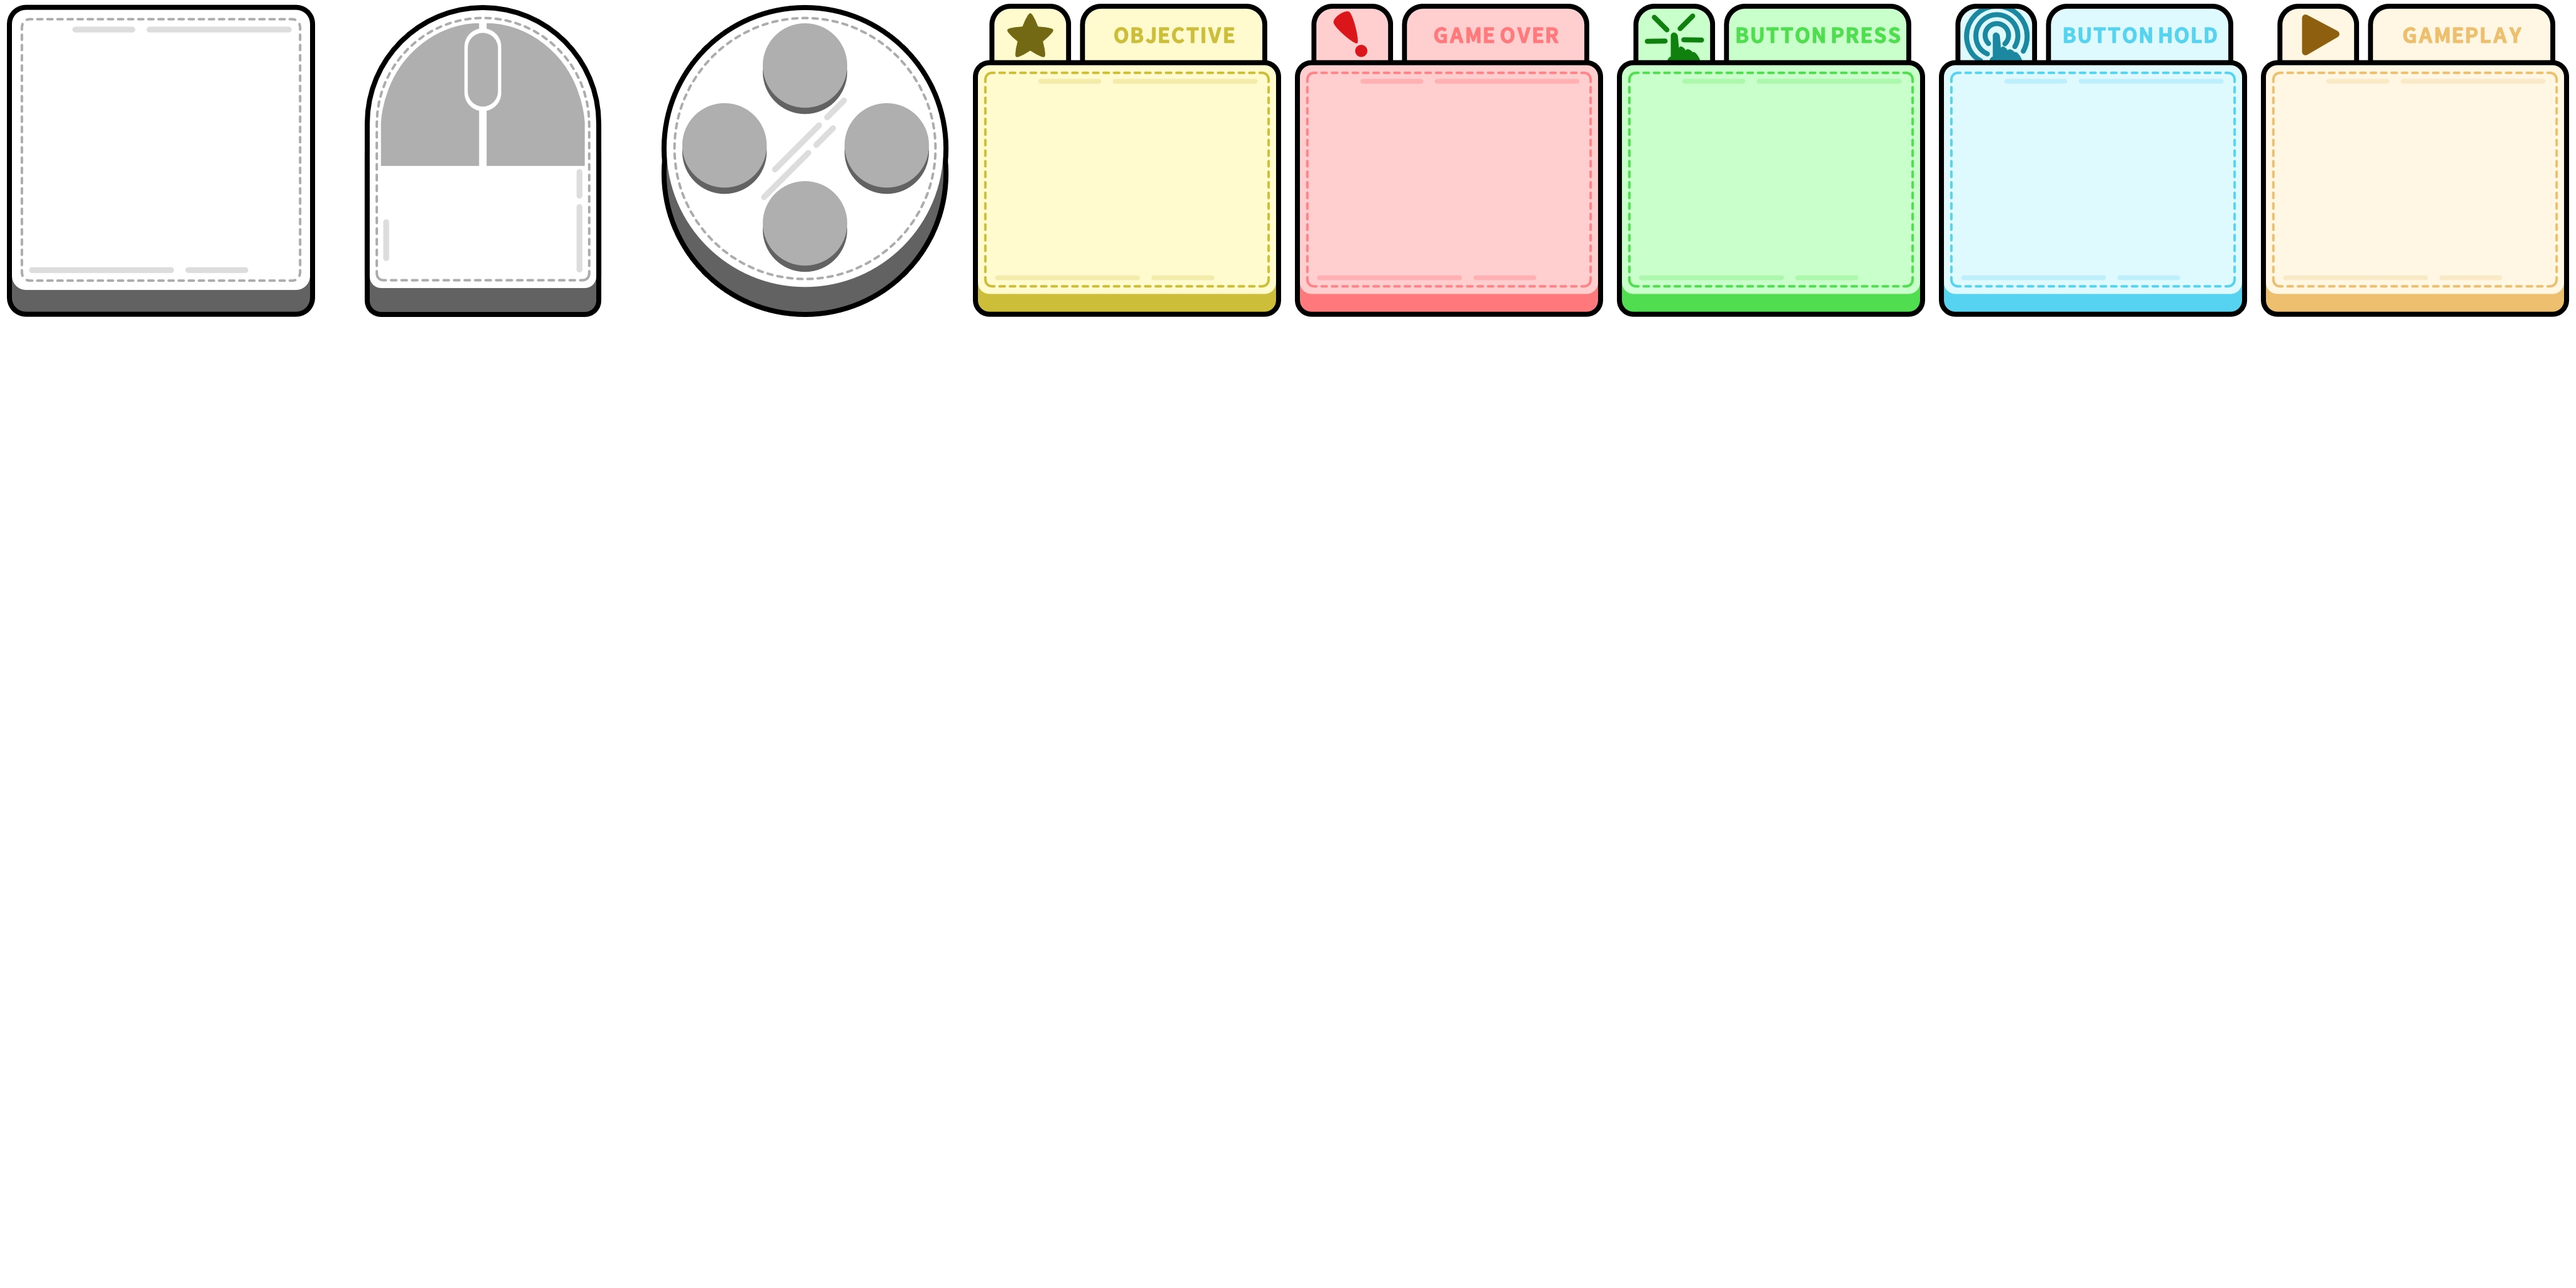
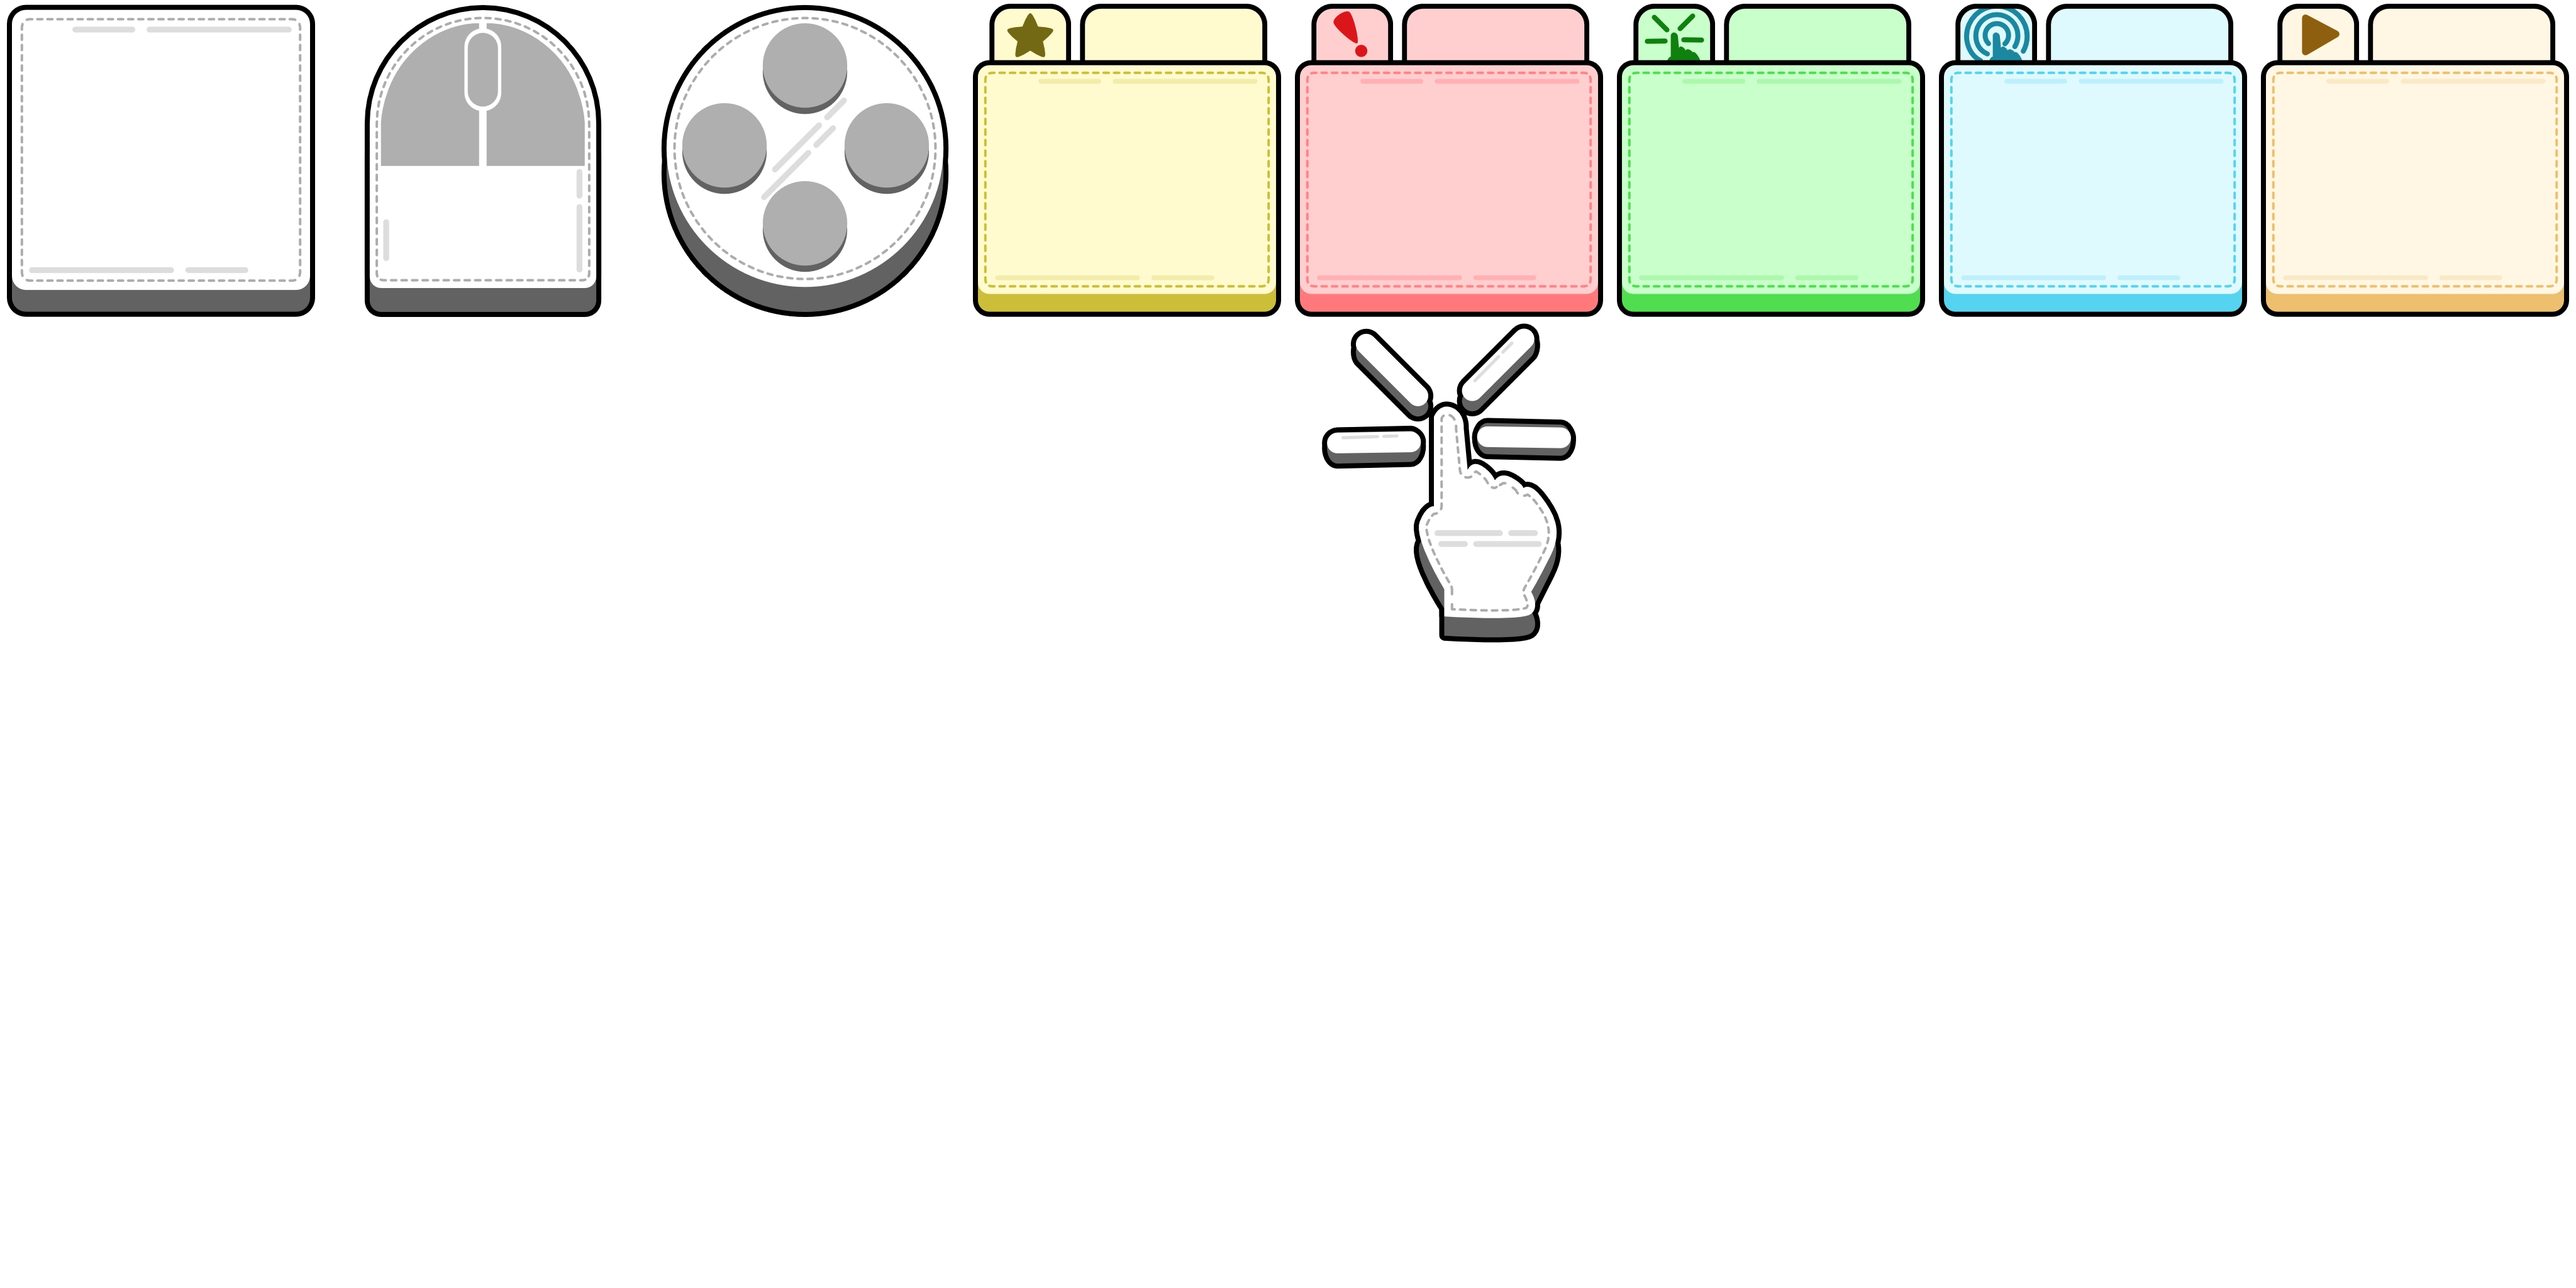
Basically done

diff --git a/non-game/devlog.md b/non-game/devlog.md
@@ -144,29 +144,3 @@ Uiteindelijk heb ik het grootste deel van de tijd besteed aan het _OBG systeem_ 
 Tot de volgende keer,
 
 Tiamo
-
-
-
-
-**THEME/SETTINGS ISSUES LEFT**:
-
-* `use_system_fonts` does not _immediately_ refresh those with "custom font overrrides". Is that bad? Or should I find a different system for that anyway? Is there a way to differentiate 2 labels within the same theme? (One `LabelBody` and one `LabelHeading`? **No, don't think so.**)
-* No, I do _not_ actually read settings when bypassing menu at the moment. I should at least make that possible: just call SettingsReader function on all Global.config_shared.settings?
-* Also style the TOGGLE (for CheckButton) and SCROLLBAR
-
-
-
-**TOUCHSCREEN SUPPORT**
-* Update text/image for TOUCH instructions ---> move AFFINITY file to tablet first
-* Update ButtonVisualizer to show "touch" (just a hand with little arrows at finger tip)
-* Proper background/texture for semi-transparent touch area 
-* Nicer code for finding the correct TouchAreas thing to append to!
-
-SAMEN STOOMBOTEN:
-
-* FOR RELEASE:
-  * Set main scene to menu, set chunks back to 8 or something
-  * I really want settings to look a little better than this.
-* Do we NEED a tutorial?
-* REFACTOR: Have fewer dependencies; if we do need them, INJECT them upon activation/ready
- 
